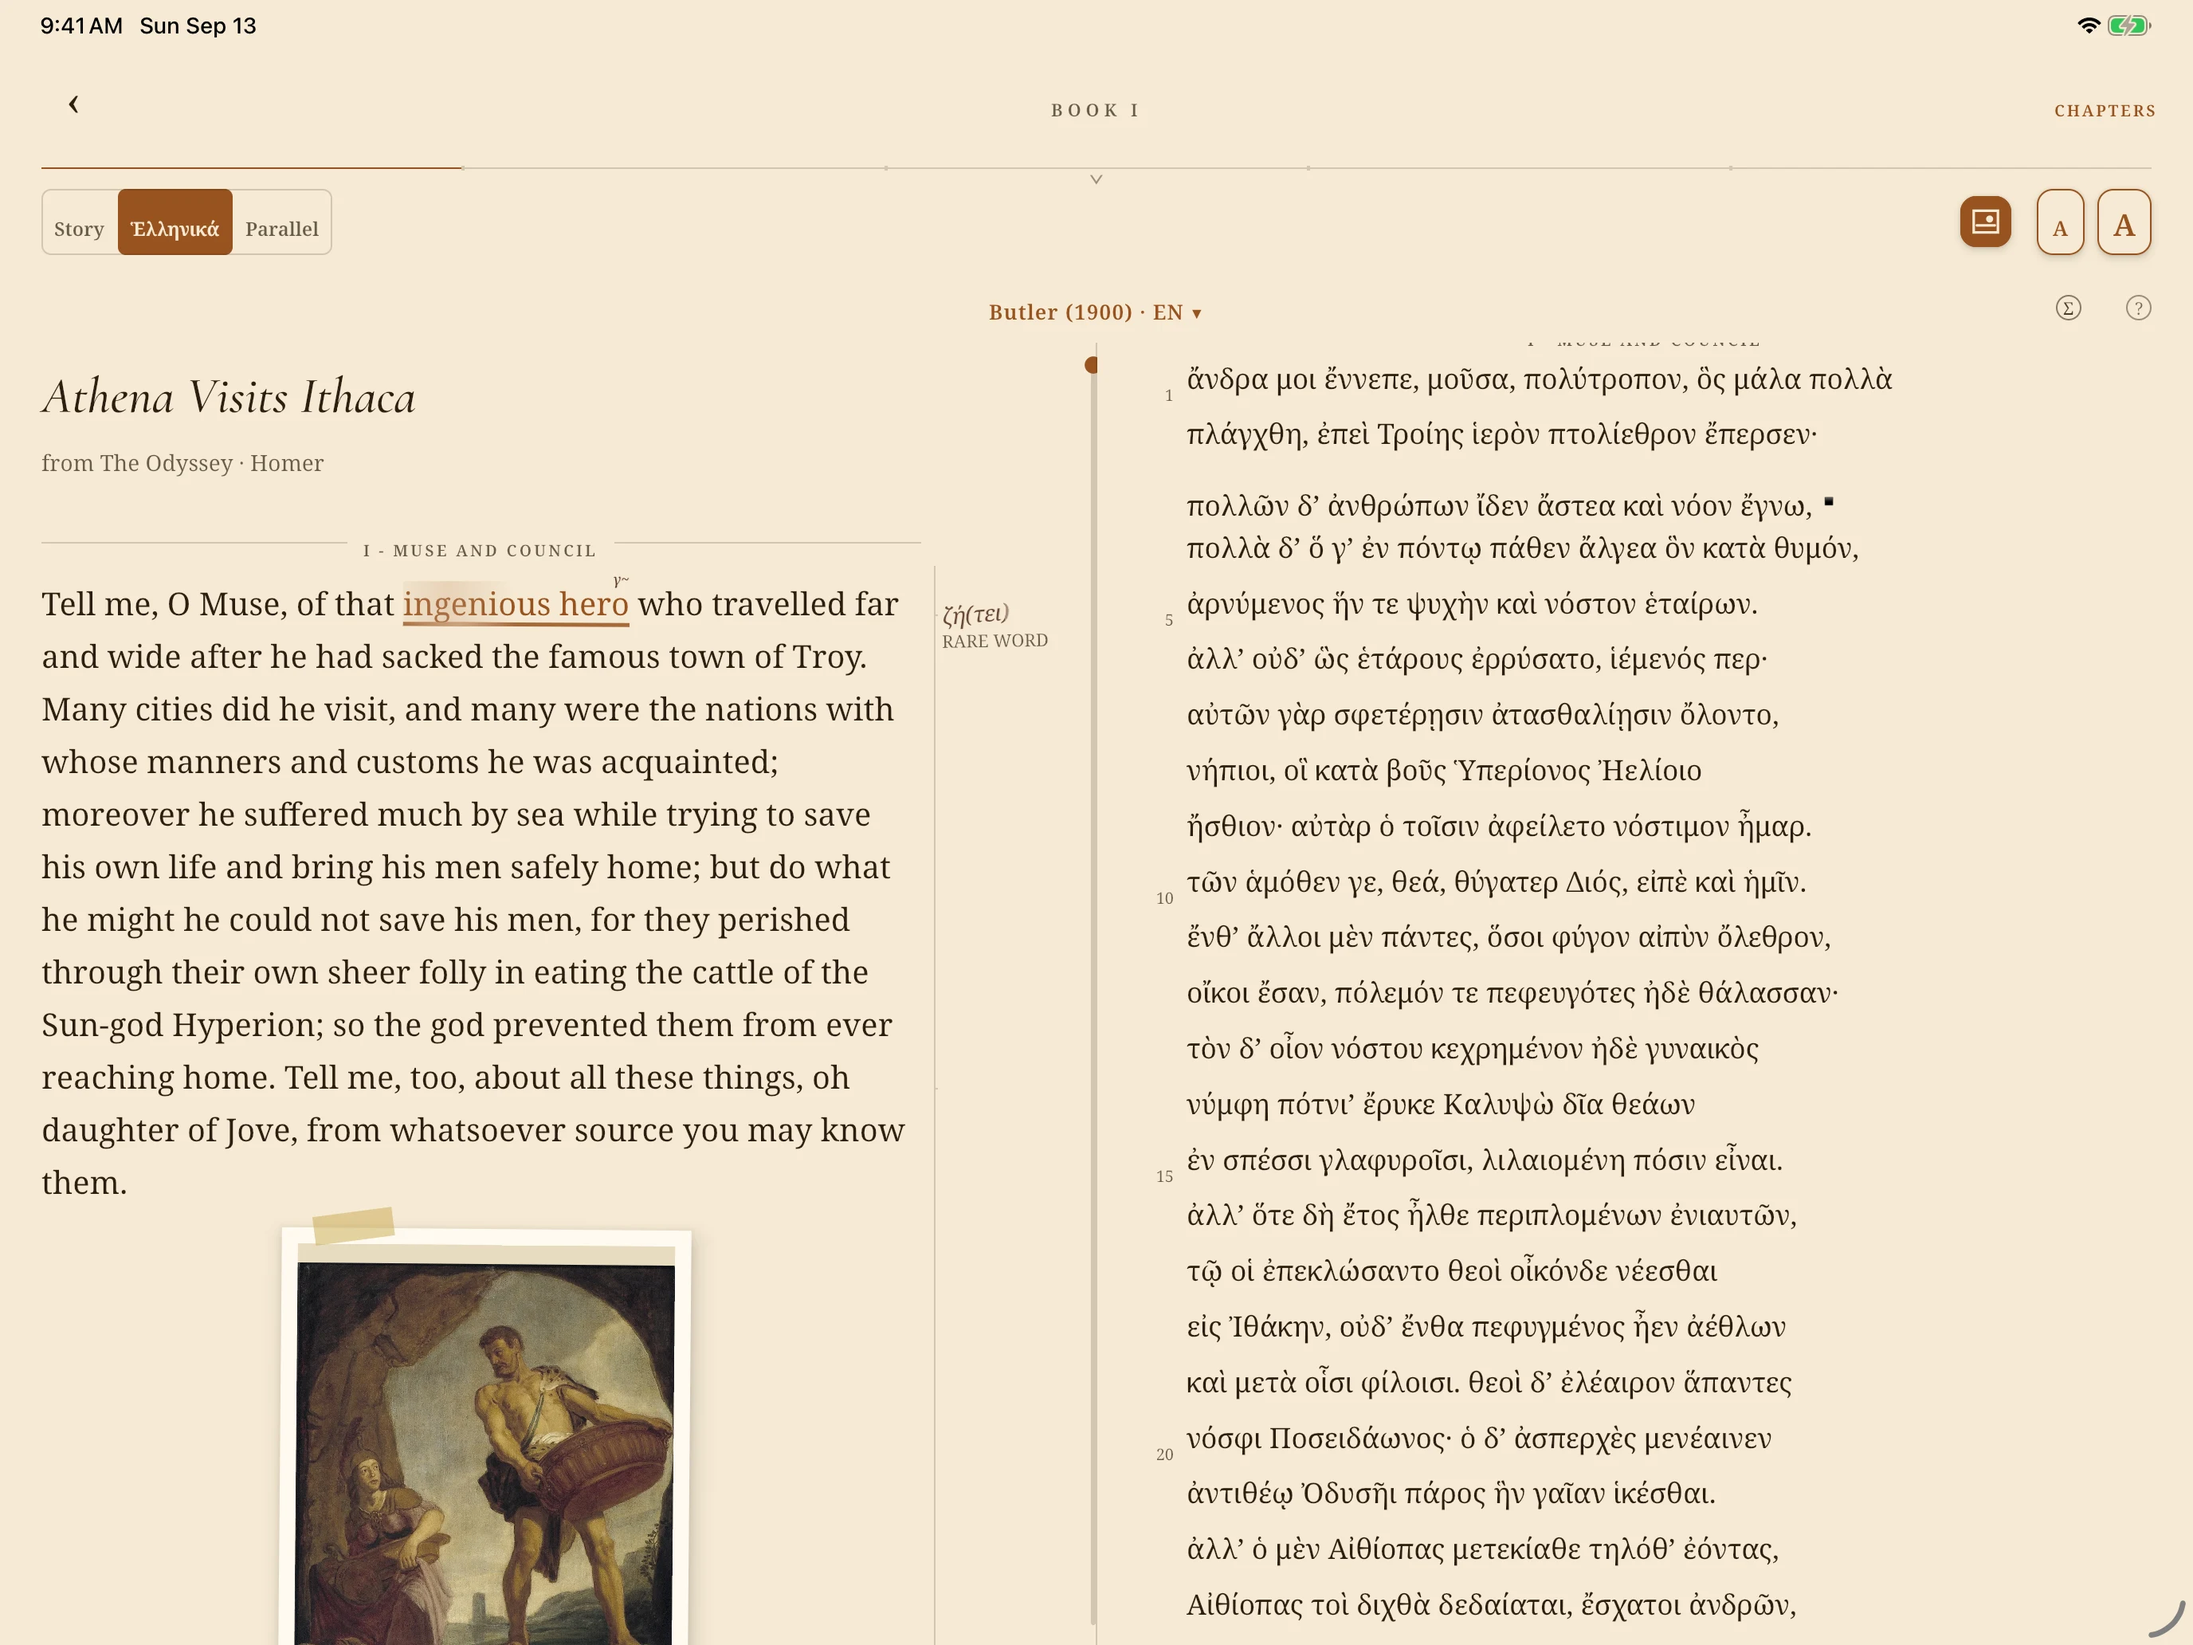
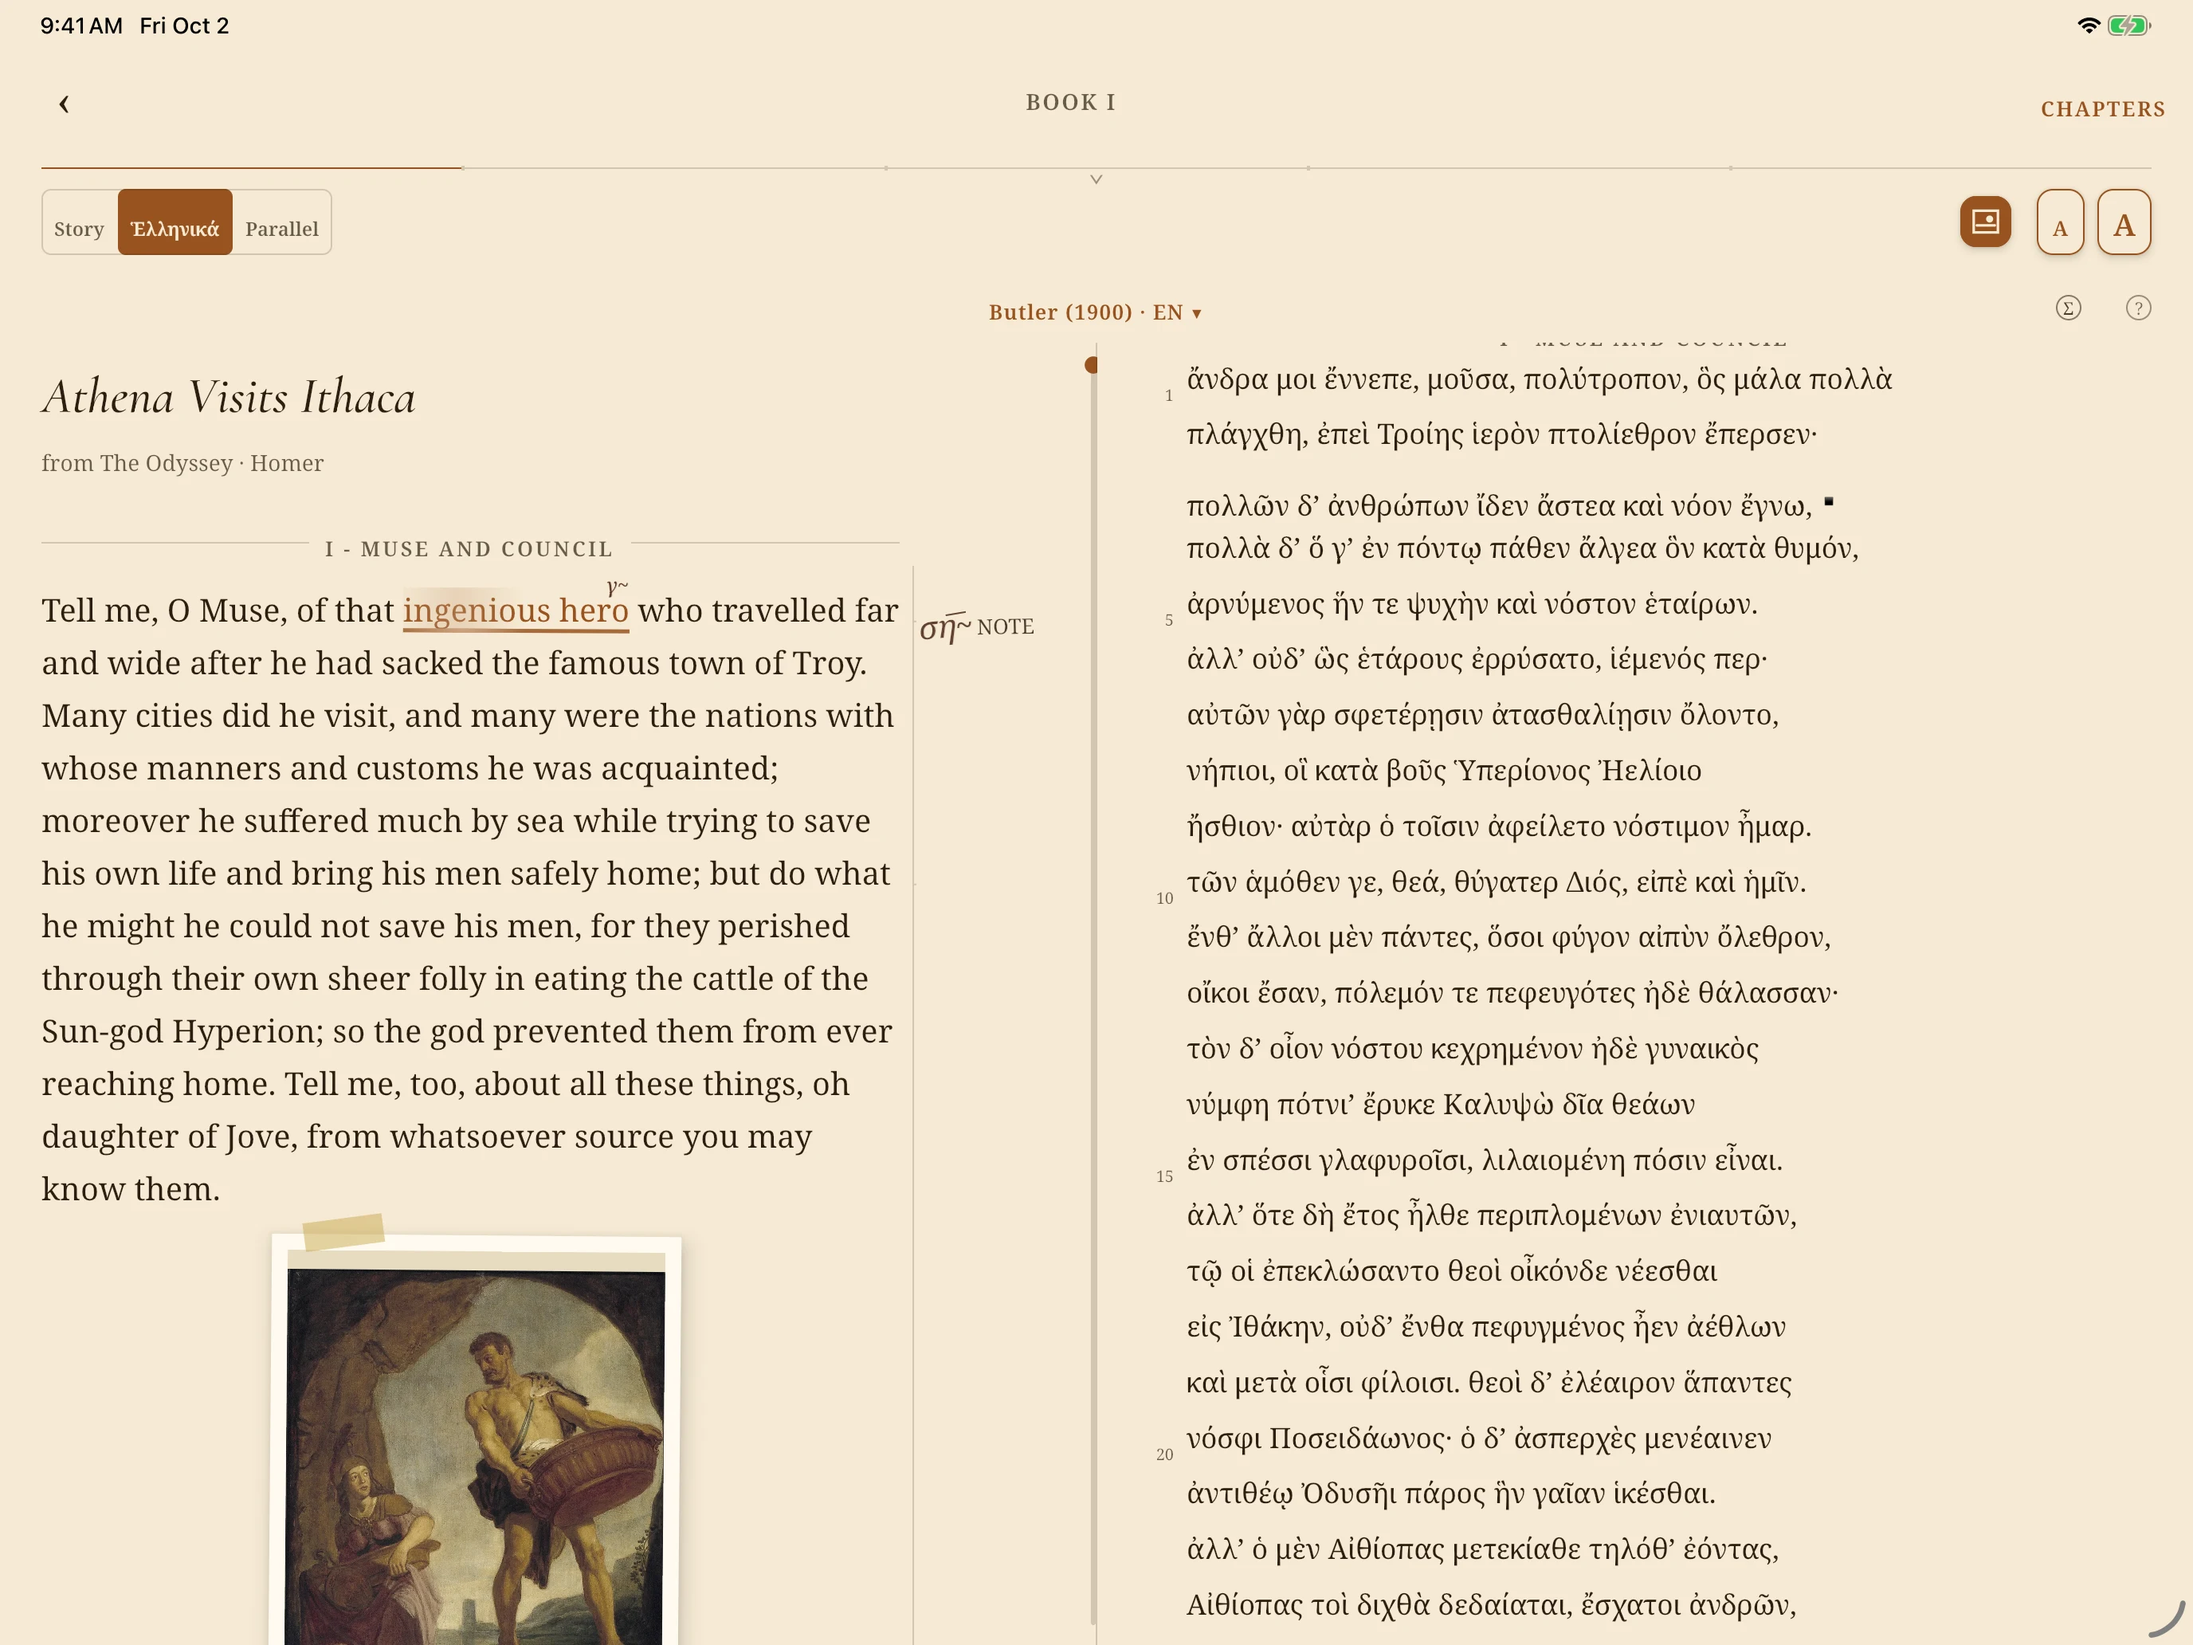
docs(site): landing copy round 2 and 0.7.10 screenshots
Copy approved by three-role content review on 2026-10-02; screenshots
recaptured on v0.7.10. Copied by hand from mannamila-web branch
docs/skald-landing-copy-2 (c9fb0a2): index.html and four assets, byte-identical.
.skald-source.json is not updated; the review registry is not mirrored.

Claude-Session: https://claude.ai/code/session_016AbaE5SVQuT7cpgoYiV2eG

diff --git a/index.html b/index.html
@@ -81,7 +81,7 @@
         <div class="hero-visual reveal reveal-delay">
           <div class="odyssey-glyph" aria-hidden="true">Ὀδύσσεια</div>
           <figure class="shot-card shot-card-phone native-shot">
-            <img src="./assets/reader-art.webp?v=070-native-20260913" width="1320" height="2868" alt="Skald on iPhone, showing Butler&#x27;s opening of Book I with reading notes and historical art." fetchpriority="high">
+            <img src="./assets/reader-art.webp?v=0710-20261002" width="1320" height="2868" alt="Skald on iPhone, showing Butler&#x27;s opening of Book I with reading notes and historical art." fetchpriority="high">
             <figcaption>Open art alongside the passage you’re reading.</figcaption>
           </figure>
           <p class="margin-note margin-note-top" aria-hidden="true">All 24 books</p>
@@ -165,13 +165,13 @@
           <div class="proof-copy reveal">
             <p class="eyebrow">24 translations in 11 languages</p>
             <h2 id="translations-title">Read it in another voice.</h2>
-            <p>Choose from 13 English translations, two in French, and one each in Spanish, German, Italian, Russian, Dutch, Danish, Swedish, Hebrew and Modern Greek. Keep the Ancient Greek beside your reading and compare how translators approach the same passage.</p>
-            <p>Tap a Greek word for the Homeric lexicon. Translation comparisons include notes on the choices behind the wording.</p>
+            <p>Choose from 13 English translations, two in French, and one each in Spanish, German, Italian, Russian, Dutch, Danish, Swedish, Hebrew and Modern Greek. Keep the Ancient Greek beside your reading and compare how translators approach the same passage. In the reader, choose Parallel mode to read two translations together.</p>
+            <p>Tap a Greek word to open its word card, which gives the meaning and form and, for names, the pronunciation. Translation comparisons include notes on the choices behind the wording.</p>
           </div>
 
           <figure class="landscape-shot native-shot tablet-shot reveal reveal-delay">
             <div class="shot-mount">
-              <img src="./assets/greek-split.webp?v=070-native-20260913" width="2752" height="2064" loading="lazy" alt="Skald on iPad, with the Ancient Greek beside an English translation.">
+              <img src="./assets/greek-split.webp?v=0710-20261002" width="2752" height="2064" loading="lazy" alt="Skald on iPad, with the Ancient Greek beside an English translation.">
             </div>
             <figcaption>Read the Greek beside a translation, with linked scrolling.</figcaption>
           </figure>
@@ -186,7 +186,7 @@
           </div>
           <figure class="landscape-shot journey-shot native-shot reveal reveal-delay">
             <div class="shot-mount">
-              <img src="./assets/nostos-route.webp?v=070-native-20260913" width="1920" height="1080" loading="lazy" alt="Skald voyage map with locations from the Odyssey.">
+              <img src="./assets/nostos-route.webp?v=0710-20261002" width="1920" height="1080" loading="lazy" alt="Skald voyage map with locations from the Odyssey.">
             </div>
             <figcaption>Trace the long route toward home without leaving the reader.</figcaption>
           </figure>
@@ -202,7 +202,7 @@
 
           <figure class="landscape-shot landscape-shot-museum native-shot tablet-shot reveal reveal-delay">
             <div class="shot-mount">
-              <img src="./assets/museum-guide.webp?v=070-native-20260913" width="2752" height="2064" loading="lazy" alt="Skald showing Pieter Lastman’s Odysseus and Minerva with its collection details and a reading note.">
+              <img src="./assets/museum-guide.webp?v=0710-20261002" width="2752" height="2064" loading="lazy" alt="Skald showing Pieter Lastman’s Odysseus and Minerva with its collection details and a reading note.">
             </div>
             <figcaption>Open an artwork alongside the poem.</figcaption>
           </figure>
@@ -213,7 +213,7 @@
             <div class="offline-main">
               <p class="eyebrow">Keep reading offline</p>
               <h2 id="offline-title">Take the library with you.</h2>
-              <p>The text, reading notes, translations, Ancient Greek, glossary, maps and bundled art live on your device. Read on a flight, on a train, or wherever you happen to have some time.</p>
+              <p>The text, reading notes, translations, Ancient Greek with its word cards, maps and bundled art live on your device. Read on a flight, on a train, or wherever you happen to have some time.</p>
               <p class="offline-emphasis">Read, compare, and find your place without a connection.</p>
             </div>
             <div class="offline-stub">
@@ -284,8 +284,12 @@
             <p>Skald includes 24 translations: 13 in English, two in French, and one each in Spanish, German, Italian, Russian, Dutch, Danish, Swedish, Hebrew and Modern Greek. Ancient Greek is included separately. <a href="./translations/">Explore the translations on the web</a>.</p>
           </details>
           <details>
+            <summary>What language is Skald in?</summary>
+            <p>The app’s interface, notes and retellings are in English. The 24 translations are in 11 languages: English, French, Spanish, German, Italian, Russian, Dutch, Danish, Swedish, Hebrew and Modern Greek.</p>
+          </details>
+          <details>
             <summary>Can I read the original Greek?</summary>
-            <p>Yes. You can place the Greek beside a telling or translation, follow corresponding passages, and open the on-device Greek glossary.</p>
+            <p>Yes. You can place the Greek beside a retelling or translation, follow corresponding passages, and tap any Greek word to open its word card. The meanings come from a Homeric dictionary stored on your device.</p>
           </details>
           <details>
             <summary>Does Skald work offline?</summary>
